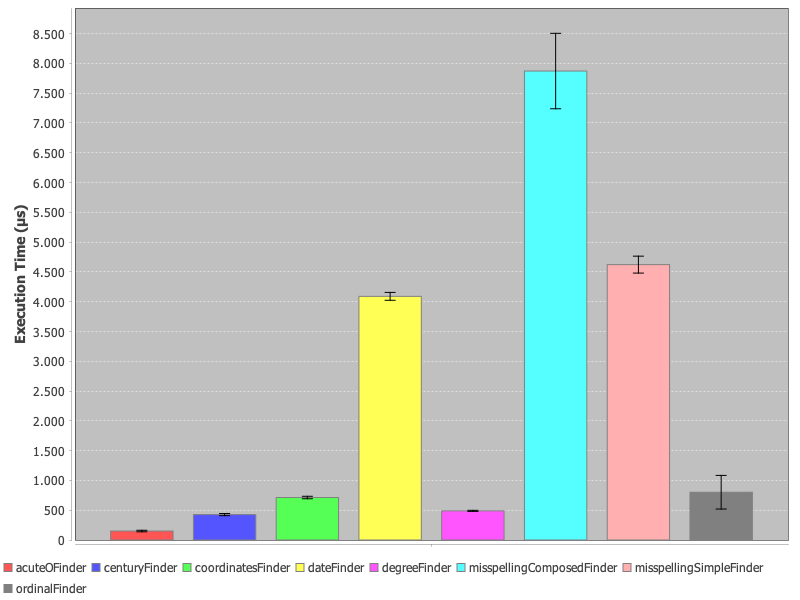
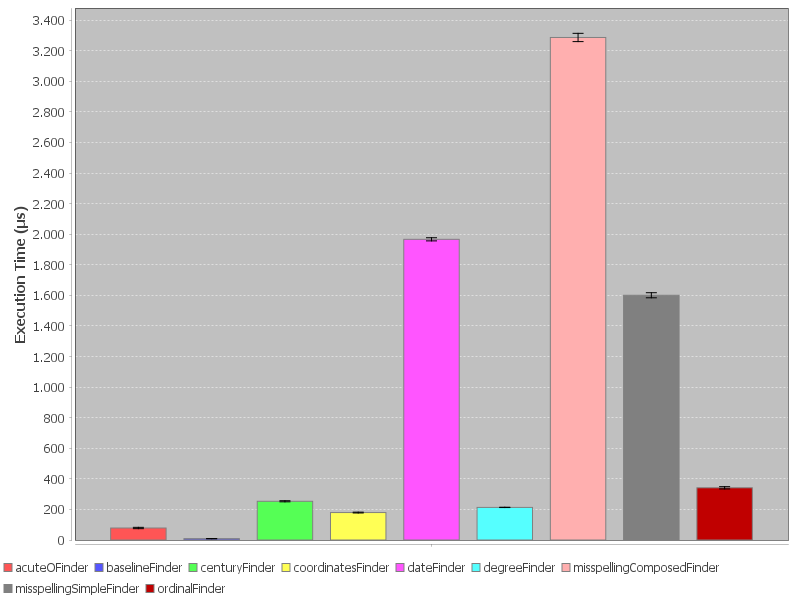
Test: add baseline finder to compare with immutable and replacement finders

diff --git a/replacer-backend/replacer-finder-benchmark/src/main/java/es/bvalero/replacer/finder/replacement/finders/ReplacementFinderJmhBenchmark.java b/replacer-backend/replacer-finder-benchmark/src/main/java/es/bvalero/replacer/finder/replacement/finders/ReplacementFinderJmhBenchmark.java
@@ -3,6 +3,7 @@ package es.bvalero.replacer.finder.replacement.finders;
 import es.bvalero.replacer.FinderProperties;
 import es.bvalero.replacer.common.exception.ReplacerException;
 import es.bvalero.replacer.finder.benchmark.BaseFinderJmhBenchmark;
+import es.bvalero.replacer.finder.benchmark.BaselineFinder;
 import es.bvalero.replacer.finder.listing.find.ListingFinder;
 import es.bvalero.replacer.finder.listing.find.ListingOfflineFinder;
 import es.bvalero.replacer.finder.listing.load.ComposedMisspellingLoader;
@@ -24,6 +25,7 @@ public class ReplacementFinderJmhBenchmark extends BaseFinderJmhBenchmark {
 
     private ConfigurableApplicationContext context;
 
+    private BaselineFinder baselineFinder;
     private AcuteOFinder acuteOFinder;
     private CenturyFinder centuryFinder;
     private CoordinatesFinder coordinatesFinder;
@@ -44,6 +46,7 @@ public class ReplacementFinderJmhBenchmark extends BaseFinderJmhBenchmark {
 
         FinderProperties finderProperties = context.getBean(FinderProperties.class);
 
+        baselineFinder = new BaselineFinder();
         acuteOFinder = new AcuteOFinder();
         centuryFinder = new CenturyFinder();
         coordinatesFinder = new CoordinatesFinder();
@@ -77,43 +80,48 @@ public class ReplacementFinderJmhBenchmark extends BaseFinderJmhBenchmark {
     }
 
     @Benchmark
+    public void baselineFinder(Blackhole bh) {
+        runFinder(baselineFinder, bh);
+    }
+
+    @Benchmark
     public void acuteOFinder(Blackhole bh) {
-        runFinder(acuteOFinder, bh);
+        runReplacementFinder(acuteOFinder, bh);
     }
 
     @Benchmark
     public void centuryFinder(Blackhole bh) {
-        runFinder(centuryFinder, bh);
+        runReplacementFinder(centuryFinder, bh);
     }
 
     @Benchmark
     public void coordinatesFinder(Blackhole bh) {
-        runFinder(coordinatesFinder, bh);
+        runReplacementFinder(coordinatesFinder, bh);
     }
 
     @Benchmark
     public void dateFinder(Blackhole bh) {
-        runFinder(dateFinder, bh);
+        runReplacementFinder(dateFinder, bh);
     }
 
     @Benchmark
     public void degreeFinder(Blackhole bh) {
-        runFinder(degreeFinder, bh);
+        runReplacementFinder(degreeFinder, bh);
     }
 
     @Benchmark
     public void ordinalFinder(Blackhole bh) {
-        runFinder(ordinalFinder, bh);
+        runReplacementFinder(ordinalFinder, bh);
     }
 
     @Benchmark
     public void misspellingComposedFinder(Blackhole bh) {
-        runFinder(misspellingComposedFinder, bh);
+        runReplacementFinder(misspellingComposedFinder, bh);
     }
 
     @Benchmark
     public void misspellingSimpleFinder(Blackhole bh) {
-        runFinder(misspellingSimpleFinder, bh);
+        runReplacementFinder(misspellingSimpleFinder, bh);
     }
 
     public static void main(String[] args) throws RunnerException, ReplacerException {

diff --git a/replacer-backend/replacer-finder-benchmark/src/main/java/es/bvalero/replacer/finder/benchmark/BaseFinderJmhBenchmark.java b/replacer-backend/replacer-finder-benchmark/src/main/java/es/bvalero/replacer/finder/benchmark/BaseFinderJmhBenchmark.java
@@ -71,30 +71,44 @@ public class BaseFinderJmhBenchmark {
     }
 
     protected void runFinder(Finder<?> finder, Blackhole bh) {
+        // We optimize the loops to focus the benchmark on the finder
+        final int sampleSize = sampleContents.size();
         if (pageId == 0) {
             // As the sample represents the whole dump,
             // finding all over the sample represents the time finding all over the dump.
             // NOTE: therefore, the average time corresponds to run the finder in the 50 sample pages.
-            sampleContents.forEach(page -> finder.find(page).forEach(bh::consume));
+            for (int i = 0; i < sampleSize; i++) {
+                finder.find(sampleContents.get(i)).forEach(bh::consume);
+            }
         } else {
-            sampleContents
-                .stream()
-                .filter(p -> p.getPageKey().getPageId() == samplePages.get(pageId))
-                .forEach(page -> finder.find(page).forEach(bh::consume));
+            final int targetPageId = samplePages.get(pageId);
+            for (int i = 0; i < sampleSize; i++) {
+                final FinderPage page = sampleContents.get(i);
+                if (page.getPageKey().getPageId() == targetPageId) {
+                    finder.find(page).forEach(bh::consume);
+                }
+            }
         }
     }
 
     protected void runReplacementFinder(ReplacementFinder finder, Blackhole bh) {
+        // We optimize the loops to focus the benchmark on the finder
+        final int sampleSize = sampleContents.size();
         if (pageId == 0) {
             // As the sample represents the whole dump,
             // finding all over the sample represents the time finding all over the dump.
             // NOTE: therefore, the average time corresponds to run the finder in the 50 sample pages.
-            sampleContents.forEach(page -> finder.findWithNoSuggestions(page).forEach(bh::consume));
+            for (int i = 0; i < sampleSize; i++) {
+                finder.findWithNoSuggestions(sampleContents.get(i)).forEach(bh::consume);
+            }
         } else {
-            sampleContents
-                .stream()
-                .filter(p -> p.getPageKey().getPageId() == samplePages.get(pageId))
-                .forEach(page -> finder.findWithNoSuggestions(page).forEach(bh::consume));
+            final int targetPageId = samplePages.get(pageId);
+            for (int i = 0; i < sampleSize; i++) {
+                final FinderPage page = sampleContents.get(i);
+                if (page.getPageKey().getPageId() == targetPageId) {
+                    finder.findWithNoSuggestions(page).forEach(bh::consume);
+                }
+            }
         }
     }
 

diff --git a/replacer-backend/replacer-finder-benchmark/src/main/java/es/bvalero/replacer/finder/immutable/finders/ImmutableFinderJmhBenchmark.java b/replacer-backend/replacer-finder-benchmark/src/main/java/es/bvalero/replacer/finder/immutable/finders/ImmutableFinderJmhBenchmark.java
@@ -3,6 +3,7 @@ package es.bvalero.replacer.finder.immutable.finders;
 import es.bvalero.replacer.FinderProperties;
 import es.bvalero.replacer.common.exception.ReplacerException;
 import es.bvalero.replacer.finder.benchmark.BaseFinderJmhBenchmark;
+import es.bvalero.replacer.finder.benchmark.BaselineFinder;
 import es.bvalero.replacer.finder.listing.find.ListingFinder;
 import es.bvalero.replacer.finder.listing.find.ListingOfflineFinder;
 import es.bvalero.replacer.finder.listing.load.ComposedMisspellingLoader;
@@ -26,6 +27,7 @@ public class ImmutableFinderJmhBenchmark extends BaseFinderJmhBenchmark {
 
     private ConfigurableApplicationContext context;
 
+    private BaselineFinder baselineFinder;
     private CommentFinder commentFinder;
     private CompleteTagFinder completeTagFinder;
     private CursiveFinder cursiveFinder;
@@ -56,6 +58,7 @@ public class ImmutableFinderJmhBenchmark extends BaseFinderJmhBenchmark {
 
         FinderProperties finderProperties = context.getBean(FinderProperties.class);
 
+        baselineFinder = new BaselineFinder();
         commentFinder = new CommentFinder();
         completeTagFinder = new CompleteTagFinder(finderProperties);
         completeTagFinder.init();
@@ -107,6 +110,11 @@ public class ImmutableFinderJmhBenchmark extends BaseFinderJmhBenchmark {
     @TearDown
     public void tearDown() {
         context.close();
+    }
+
+    @Benchmark
+    public void baselineFinder(Blackhole bh) {
+        runFinder(baselineFinder, bh);
     }
 
     @Benchmark

diff --git a/replacer-backend/replacer-finder-benchmark/src/main/java/es/bvalero/replacer/finder/benchmark/BaselineFinder.java b/replacer-backend/replacer-finder-benchmark/src/main/java/es/bvalero/replacer/finder/benchmark/BaselineFinder.java
@@ -3,14 +3,14 @@ package es.bvalero.replacer.finder.benchmark;
 import es.bvalero.replacer.finder.FinderPage;
 import es.bvalero.replacer.finder.util.FinderMatchResult;
 import es.bvalero.replacer.finder.util.LinearMatchFinder;
-import java.util.UUID;
 import java.util.regex.MatchResult;
 import java.util.stream.Stream;
 import org.springframework.lang.Nullable;
 
 public class BaselineFinder implements BenchmarkFinder {
 
-    private final String word = UUID.randomUUID().toString();
+    private static final char CHAR = '~'; // Character rare enough in Spanish articles
+    private static final String WORD = String.valueOf(CHAR);
 
     @Override
     public Stream<MatchResult> findMatchResults(FinderPage page) {
@@ -23,7 +23,7 @@ public class BaselineFinder implements BenchmarkFinder {
         if (start >= 0 && start < text.length()) {
             final int startMatch = findStartMatch(text, start);
             if (startMatch >= 0) {
-                return FinderMatchResult.of(startMatch, word);
+                return FinderMatchResult.of(startMatch, WORD);
             } else {
                 return null;
             }
@@ -32,7 +32,7 @@ public class BaselineFinder implements BenchmarkFinder {
     }
 
     private int findStartMatch(String text, int start) {
-        // return text.charAt(1) == 'ñ' ? 1 : -1;
-        return text.indexOf(word, start);
+        // return text.isEmpty() ? 1 : -1;
+        return text.indexOf(CHAR, start);
     }
 }
